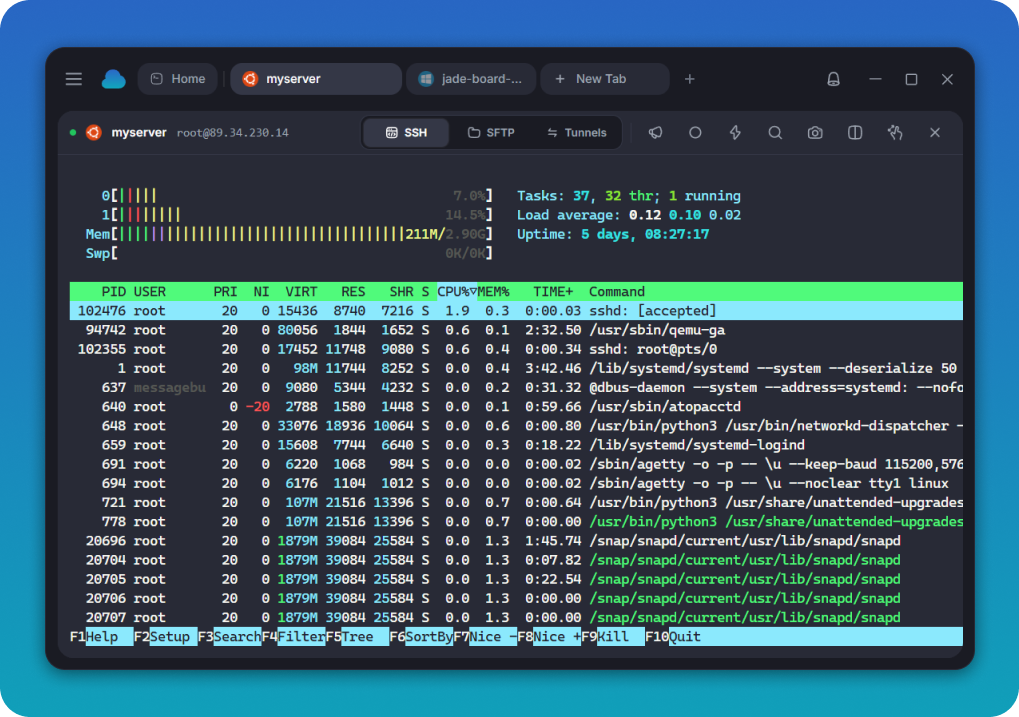
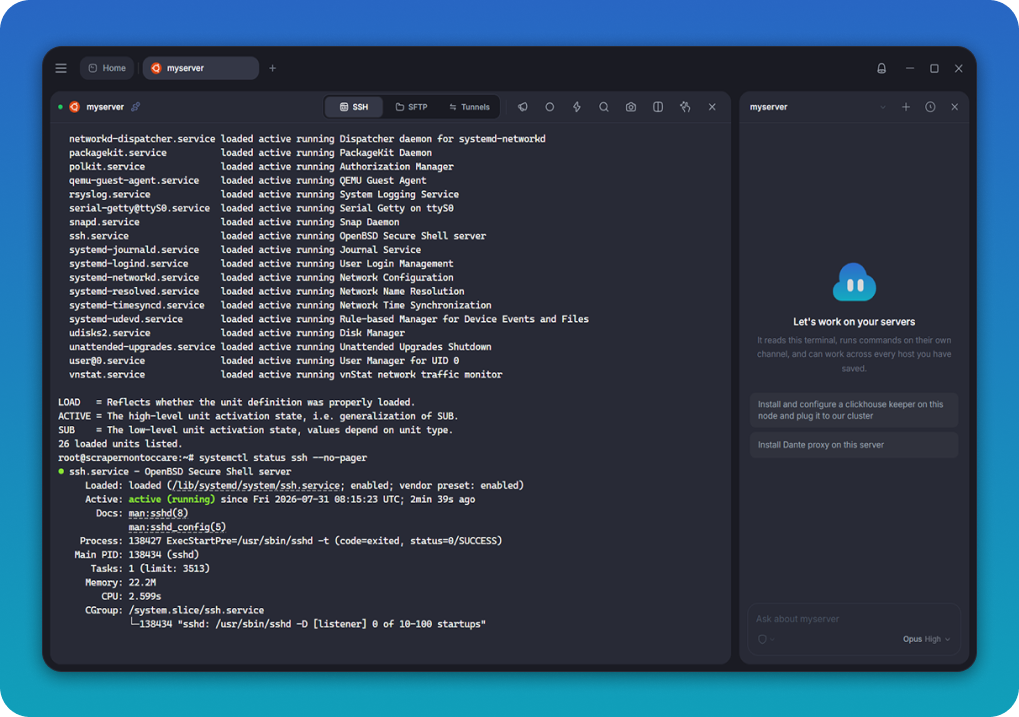
Document the assistant in the READMEs, and reshoot the screenshots
The feature list, the shortcut table and the tech stack in the English,
Spanish and Russian READMEs. The Chinese one gets the tagline for now,
since the rest of it has not been translated yet.

The screenshots are retaken with the panel open, which is the first
thing the page shows.

diff --git a/README.es.md b/README.es.md
@@ -10,7 +10,7 @@
 
 <p align="center">
   Un espacio de trabajo de terminal moderno, hecho con Electron, React y xterm.js.<br/>
-  Paneles divididos · Pestañas · Transferencia de archivos · Reenvío de puertos · Escritorios remotos · Fragmentos
+  Agente de IA · Paneles divididos · Pestañas · Transferencia de archivos · Reenvío de puertos · Escritorios remotos · Fragmentos
 </p>
 
 <p align="center">
@@ -93,9 +93,33 @@ para leerlo y modificarlo.
   la misma aplicación.
 - **Un sitio donde guardar servidores**: carpetas, etiquetas, un almacén de
   claves y fragmentos, todo cifrado y todo buscable.
+- **Un agente de IA** en un panel junto al terminal, que lee la sesión que
+  tienes delante y trabaja en el servidor a través de ella, preguntando antes
+  de cambiar nada.
 
 <a name="features"></a>
 ## Características
+
+### Agente de IA
+
+- **Funciona con el Claude Code o el Codex que ya tienes** en tu máquina, con
+  tu propia cuenta: nada que pegar, ninguna suscripción adicional
+- **Lee la sesión que estás mirando**, así que responde al error que tienes en
+  pantalla sin que pegues nada
+- **Trabaja en el terminal que ves**: los comandos se escriben en el panel y la
+  salida se queda en tu historial, o se ejecutan en un canal oculto si lo
+  prefieres
+- **Pregunta antes de cambiar nada**, con una lista de comandos que solo miran
+  y un modo más estricto o más suelto cuando lo quieras
+- **Apuntado donde tú digas**: la sesión que tienes delante, una que fijes, o
+  todos los hosts que tengas guardados
+- **Herramientas en vez de suposiciones**: conectar un host guardado, leer y
+  escribir archivos, responder a una pregunta que ya está esperando, leer el
+  historial
+- **Deja en paz tu propia máquina** salvo que le digas lo contrario, y se
+  detiene solo en vez de dar vueltas
+- **Modelo y nivel de razonamiento por conversación**, y mientras trabaja
+  muestra lo que cuesta o cuánto de tu plan llevas usado
 
 ### Terminal
 
@@ -201,6 +225,7 @@ npm run build
 | `Ctrl+Shift+K` | Paleta de fragmentos | `Alt+Shift+-` | Dividir abajo |
 | `Ctrl+Shift+B` | Entrada difundida | `Alt+Shift+Z` | Ampliar panel |
 | `Ctrl+Shift+C` / `V` | Copiar y pegar | `Ctrl+Shift+W` | Cerrar panel |
+| `Ctrl+Shift+A` | Agente de IA | `Alt+Flechas` | Moverse entre paneles |
 
 <a name="community"></a>
 ## Comunidad
@@ -218,7 +243,7 @@ Las issues y los pull requests son bienvenidos aquí en GitHub.
 ## Tecnología
 
 Electron · React · xterm.js · ssh2 · IronRDP (WebAssembly) · noVNC · Tailwind ·
-Vite
+Vite · Claude Agent SDK · Codex SDK
 
 `src/main/` es el proceso principal de Electron, un módulo por función.
 `src/renderer/` es la interfaz React: `components/` por función, `hooks/` para el

diff --git a/README.md b/README.md
@@ -10,7 +10,7 @@
 
 <p align="center">
   A modern terminal workspace built with Electron, React and xterm.js.<br/>
-  Split panes · Tabs · File transfers · Port forwarding · Remote desktops · Snippets
+  AI agent · Split panes · Tabs · File transfers · Port forwarding · Remote desktops · Snippets
 </p>
 
 <p align="center">
@@ -91,9 +91,31 @@ everyone, and the whole source is here to read and change.
   in the same app.
 - **A place to keep servers**: folders, tags, a key vault and snippets, all
   encrypted and all searchable.
+- **An AI agent** in a panel beside the terminal, which reads the session you
+  are looking at and works on the server through it, asking before it changes
+  anything.
 
 <a name="features"></a>
 ## Features
+
+### AI agent
+
+- **Runs on the Claude Code or Codex already on your machine**, signed in to
+  your own account: nothing to paste, nothing extra to subscribe to
+- **Reads the session you are watching**, so the error on your screen is the
+  one it answers, without you pasting anything
+- **Works in the terminal you can see**: commands are typed into the pane and
+  the output stays in your scrollback, or run on a hidden channel if you prefer
+- **Asks before it changes anything**, with an allow list for the commands that
+  only look, and a stricter or looser mode when you want one
+- **Pointed where you like**: the session in front, one you pin, or every host
+  you have saved
+- **Tools instead of guesses**: connect a saved host, read and write files,
+  answer a prompt that is already waiting, read the scrollback
+- **Leaves your own machine alone** unless you say otherwise, and stops on its
+  own rather than looping
+- **Model and reasoning effort per conversation**, with what it is costing, or
+  how much of your plan it has used, shown as it works
 
 ### Terminal
 
@@ -194,6 +216,7 @@ npm run build
 | `Ctrl+Shift+K` | Snippet palette | `Alt+Shift+-` | Split down |
 | `Ctrl+Shift+B` | Broadcast input | `Alt+Shift+Z` | Zoom pane |
 | `Ctrl+Shift+C` / `V` | Copy and paste | `Ctrl+Shift+W` | Close pane |
+| `Ctrl+Shift+A` | AI agent | `Alt+Arrows` | Move between panes |
 
 <a name="community"></a>
 ## Community
@@ -210,7 +233,7 @@ Issues and pull requests are welcome here on GitHub.
 ## Tech stack
 
 Electron · React · xterm.js · ssh2 · IronRDP (WebAssembly) · noVNC · Tailwind ·
-Vite
+Vite · Claude Agent SDK · Codex SDK
 
 `src/main/` is the Electron main process, one module per feature.
 `src/renderer/` is the React UI: `components/` by feature, `hooks/` for state,

diff --git a/README.zh-CN.md b/README.zh-CN.md
@@ -10,7 +10,7 @@
 
 <p align="center">
   基于 Electron、React 和 xterm.js 打造的现代终端工作区。<br/>
-  分屏 · 标签页 · 文件传输 · 端口转发 · 远程桌面 · 命令片段
+  AI 助手 · 分屏 · 标签页 · 文件传输 · 端口转发 · 远程桌面 · 命令片段
 </p>
 
 <p align="center">
